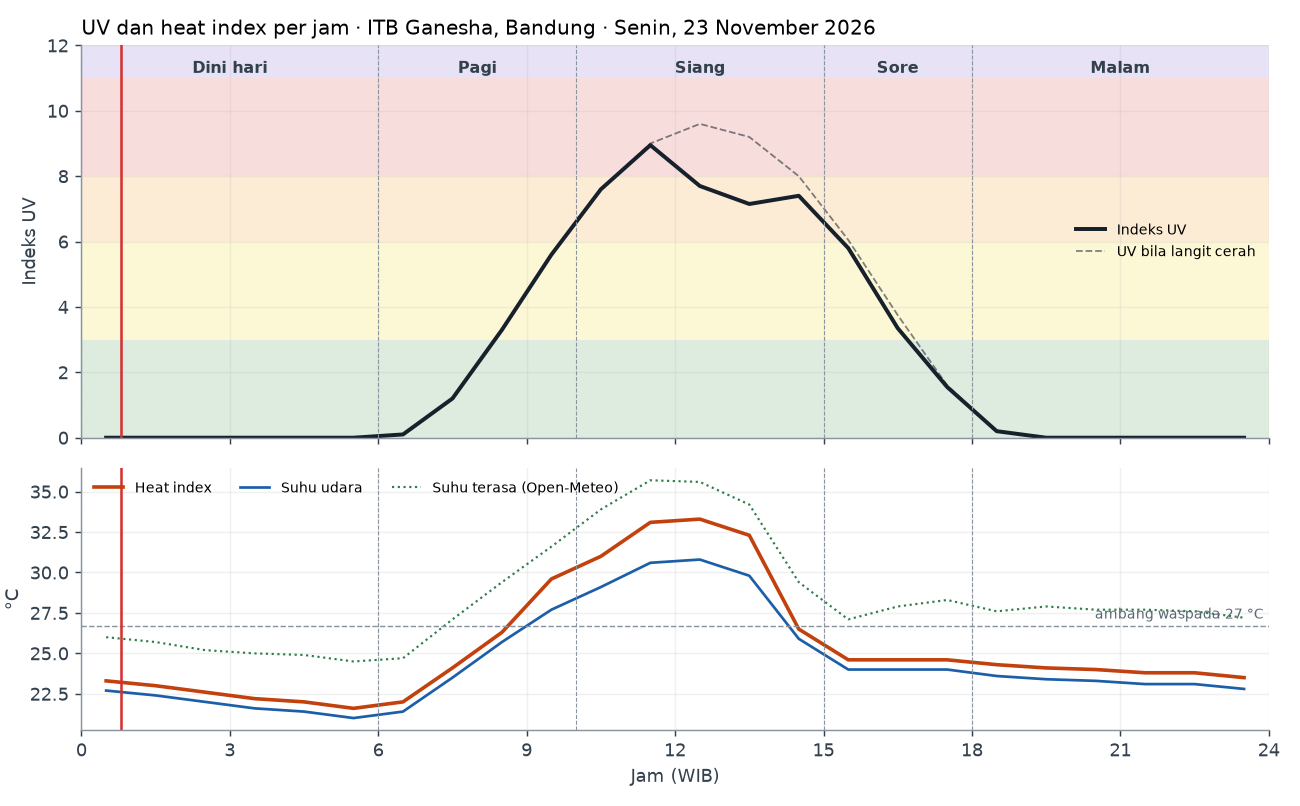
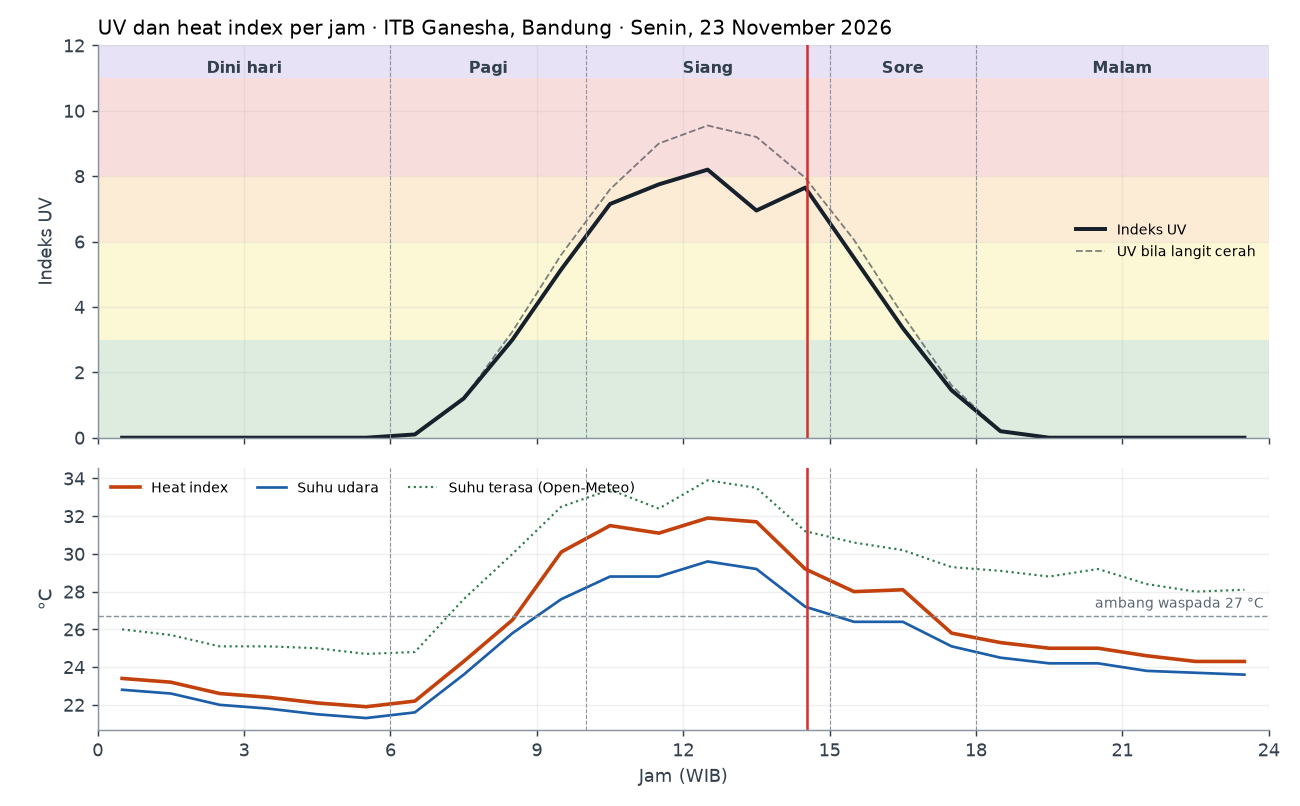
data: update 2026-11-23 14:32 WIB

diff --git a/docs/index.html b/docs/index.html
@@ -32,18 +32,18 @@ footer{margin-top:32px;color:var(--mut);font-size:.82rem}
 footer a,details a{color:var(--accent)}
 </style></head><body><div class="wrap">
 <header><h1>UV dan Heat Index — ITB Ganesha, Bandung</h1>
-<p>Senin, 23 November 2026 · diperbarui 00:48 WIB · data Open-Meteo</p></header>
+<p>Senin, 23 November 2026 · diperbarui 14:32 WIB · data Open-Meteo</p></header>
 <section class="kpis">
-<div class="kpi"><div class="l">Puncak UV</div><div class="v">8,9</div>
-<div class="s"><span class="pill" style="background:#d62f2f;color:#ffffff">Sangat tinggi</span> pukul 11:00 WIB</div><div class="s">Perkiraan kasar: kulit sensitif mulai memerah dalam ±20 menit tanpa perlindungan</div></div>
+<div class="kpi"><div class="l">Puncak UV</div><div class="v">8,2</div>
+<div class="s"><span class="pill" style="background:#d62f2f;color:#ffffff">Sangat tinggi</span> pukul 12:00 WIB</div><div class="s">Perkiraan kasar: kulit sensitif mulai memerah dalam ±20 menit tanpa perlindungan</div></div>
 <div class="kpi"><div class="l">Jam perlu proteksi (UV ≥ 3)</div><div class="v" style="font-size:1.35rem">08:00–17:00</div><div class="s">Jendela aman (UV &lt; 3): 06:00–08:00, 17:00–18:00</div></div>
-<div class="kpi"><div class="l">Heat index tertinggi</div><div class="v">33,3 °C</div><div class="s"><span class="pill" style="background:#f28a00;color:#1b1b1b">Sangat waspada</span></div></div>
+<div class="kpi"><div class="l">Heat index tertinggi</div><div class="v">31,9 °C</div><div class="s"><span class="pill" style="background:#f2d600;color:#1b1b1b">Waspada</span></div></div>
 </section>
 <h2>Ringkasan dan tindakan per segmen waktu</h2>
 <div class="tablewrap"><table><thead><tr><th>Segmen (WIB)</th><th>UV maks</th><th>Heat index maks</th><th>Kepastian</th><th>Tindakan</th></tr></thead>
-<tbody><tr class='now'><td><b>Dini hari</b><br><small>00:00–06:00</small><br><small>Berlangsung</small></td><td><span class="pill" style="background:#d9dee3;color:#33404d">Tidak ada</span></td><td><span class="n">23,3 °C</span> <span class="pill" style="background:#2e8b3d;color:#ffffff">Aman</span><br><small>suhu rata-rata 22 °C, RH 90%</small></td><td><small>Tinggi · HI 23–24 °C</small></td><td>Tabir surya tidak diperlukan.</td></tr><tr class=''><td><b>Pagi</b><br><small>06:00–10:00</small><br><small>Akan datang</small></td><td><span class="n">5,6</span> <span class="pill" style="background:#f2d600;color:#1b1b1b">Sedang</span><br><small>puncak 09:00</small></td><td><span class="n">29,6 °C</span> <span class="pill" style="background:#f2d600;color:#1b1b1b">Waspada</span><br><small>suhu rata-rata 25 °C, RH 80%</small></td><td><small>Sedang · UV 4,0–5,6 · HI 28–31 °C · CAMS 4,0</small></td><td>SPF 30+ dan kacamata hitam; cari teduh saat terik. Bawa botol minum; minum sebelum haus. Mendung tidak mengurangi risiko UV.</td></tr><tr class=''><td><b>Siang</b><br><small>10:00–15:00</small><br><small>Akan datang</small></td><td><span class="n">8,9</span> <span class="pill" style="background:#d62f2f;color:#ffffff">Sangat tinggi</span><br><small>puncak 11:00</small></td><td><span class="n">33,3 °C</span> <span class="pill" style="background:#f28a00;color:#1b1b1b">Sangat waspada</span><br><small>suhu rata-rata 29 °C, RH 61%</small></td><td><small>Tinggi · UV 8,9–10,0 · HI 30–36 °C · CAMS 10,0</small></td><td>Hindari luar ruang tanpa naungan; bila perlu SPF 50+, topi, pakaian menutup. Minum ±250 ml tiap jam secara perlahan; kurangi aktivitas berat. Mendung tidak mengurangi risiko UV. Bawa payung.</td></tr><tr class=''><td><b>Sore</b><br><small>15:00–18:00</small><br><small>Akan datang</small></td><td><span class="n">5,8</span> <span class="pill" style="background:#f2d600;color:#1b1b1b">Sedang</span><br><small>puncak 15:00</small></td><td><span class="n">24,6 °C</span> <span class="pill" style="background:#2e8b3d;color:#ffffff">Aman</span><br><small>suhu rata-rata 24 °C, RH 83%</small></td><td><small>Sedang · UV 1,2–5,8 · HI 23–30 °C · CAMS 1,2 · skenario terburuk</small></td><td>SPF 30+ dan kacamata hitam; cari teduh saat terik. Bawa botol minum; minum sebelum haus. Mendung tidak mengurangi risiko UV. Bawa payung.</td></tr><tr class=''><td><b>Malam</b><br><small>18:00–24:00</small><br><small>Akan datang</small></td><td><span class="pill" style="background:#d9dee3;color:#33404d">Tidak ada</span></td><td><span class="n">24,3 °C</span> <span class="pill" style="background:#2e8b3d;color:#ffffff">Aman</span><br><small>suhu rata-rata 23 °C, RH 90%</small></td><td><small>Tinggi · HI 24–25 °C</small></td><td>Tabir surya tidak diperlukan.</td></tr></tbody></table></div>
+<tbody><tr class='past'><td><b>Dini hari</b><br><small>00:00–06:00</small><br><small>Selesai</small></td><td><span class="pill" style="background:#d9dee3;color:#33404d">Tidak ada</span></td><td><span class="n">23,4 °C</span> <span class="pill" style="background:#2e8b3d;color:#ffffff">Aman</span><br><small>suhu rata-rata 22 °C, RH 90%</small></td><td><small>Tinggi · HI 23–24 °C</small></td><td>Tabir surya tidak diperlukan.</td></tr><tr class='past'><td><b>Pagi</b><br><small>06:00–10:00</small><br><small>Selesai</small></td><td><span class="n">5,2</span> <span class="pill" style="background:#f2d600;color:#1b1b1b">Sedang</span><br><small>puncak 09:00</small></td><td><span class="n">30,1 °C</span> <span class="pill" style="background:#f2d600;color:#1b1b1b">Waspada</span><br><small>suhu rata-rata 25 °C, RH 82%</small></td><td><small>Sedang · UV 5,2–6,2 · HI 28–32 °C · CAMS 6,2 · skenario terburuk</small></td><td>SPF 50+, topi, lengan panjang; ulangi tiap 2 jam. Bawa botol minum; minum sebelum haus. Mendung tidak mengurangi risiko UV.</td></tr><tr class='now'><td><b>Siang</b><br><small>10:00–15:00</small><br><small>Berlangsung</small></td><td><span class="n">8,2</span> <span class="pill" style="background:#d62f2f;color:#ffffff">Sangat tinggi</span><br><small>puncak 12:00</small></td><td><span class="n">31,9 °C</span> <span class="pill" style="background:#f2d600;color:#1b1b1b">Waspada</span><br><small>suhu rata-rata 29 °C, RH 64%</small></td><td><small>Tinggi · UV 8,2–8,2 · HI 29–34 °C · CAMS 8,2 · skenario terburuk</small></td><td>Hindari luar ruang tanpa naungan; bila perlu SPF 50+, topi, pakaian menutup. Minum ±250 ml tiap jam secara perlahan; kurangi aktivitas berat. Mendung tidak mengurangi risiko UV. Bawa payung.</td></tr><tr class=''><td><b>Sore</b><br><small>15:00–18:00</small><br><small>Akan datang</small></td><td><span class="n">5,5</span> <span class="pill" style="background:#f2d600;color:#1b1b1b">Sedang</span><br><small>puncak 15:00</small></td><td><span class="n">28,1 °C</span> <span class="pill" style="background:#f2d600;color:#1b1b1b">Waspada</span><br><small>suhu rata-rata 26 °C, RH 76%</small></td><td><small>Sedang · UV 1,8–5,5 · HI 26–31 °C · CAMS 1,8</small></td><td>SPF 30+ dan kacamata hitam; cari teduh saat terik. Bawa botol minum; minum sebelum haus. Mendung tidak mengurangi risiko UV. Bawa payung.</td></tr><tr class=''><td><b>Malam</b><br><small>18:00–24:00</small><br><small>Akan datang</small></td><td><span class="pill" style="background:#d9dee3;color:#33404d">Tidak ada</span></td><td><span class="n">25,3 °C</span> <span class="pill" style="background:#2e8b3d;color:#ffffff">Aman</span><br><small>suhu rata-rata 24 °C, RH 87%</small></td><td><small>Tinggi · HI 24–26 °C</small></td><td>Tabir surya tidak diperlukan. Bawa payung.</td></tr></tbody></table></div>
 <h2>Pesan hari ini untuk mahasiswa</h2>
-<div class="tablewrap" style="padding:6px 20px"><ul style="padding-left:18px;margin:10px 0"><li>UV hari ini mencapai 8,9 (sangat tinggi) sekitar pukul 11:00. Pakai sunscreen dan cari tempat teduh pada 08:00–17:00.</li><li>Target minimal 8 gelas air putih sehari. Kalau kamu banyak di luar ruang, minum ±250 ml tiap jam secara perlahan. Cek warna pipis: kuning pucat berarti cukup.</li><li>Kombo hari ini: minum cukup + sunscreen + berteduh di jam puncak.</li></ul></div>
+<div class="tablewrap" style="padding:6px 20px"><ul style="padding-left:18px;margin:10px 0"><li>UV hari ini mencapai 8,2 (sangat tinggi) sekitar pukul 12:00. Pakai sunscreen dan cari tempat teduh pada 08:00–17:00.</li><li>Target minimal 8 gelas air putih sehari. Kalau kamu banyak di luar ruang, minum ±250 ml tiap jam secara perlahan. Cek warna pipis: kuning pucat berarti cukup.</li><li>Kombo hari ini: minum cukup + sunscreen + berteduh di jam puncak.</li></ul></div>
 <h2>Grafik</h2><div class="charts"><img src="today.png" alt="UV, heat index, dan suhu per jam hari ini"><img src="trend.png" alt="UV dan heat index maksimum per segmen, 14 hari"></div>
 <details><summary>Cara membaca, asumsi, dan ketidakpastian</summary><ul>
 <li>Nilai per segmen adalah <b>maksimum</b> dalam segmen tersebut (kondisi terburuk). Batas segmen: Dini hari 00–06, Pagi 06–10, Siang 10–15, Sore 15–18, Malam 18–24 WIB.</li>

diff --git a/README.md b/README.md
@@ -10,26 +10,26 @@ Pemantauan intensitas sinar UV dan heat index di kampus ITB Ganesha, Bandung, pe
 ## Kondisi hari ini
 
 <!-- TODAY:START -->
-**Senin, 23 November 2026** · ITB Ganesha, Bandung · diperbarui 00:48 WIB
+**Senin, 23 November 2026** · ITB Ganesha, Bandung · diperbarui 14:32 WIB
 
 | Ringkasan hari ini | |
 |---|---|
-| Puncak UV | **8,9** (Sangat tinggi) pukul 11:00 WIB |
+| Puncak UV | **8,2** (Sangat tinggi) pukul 12:00 WIB |
 | Jam perlu proteksi (UV ≥ 3) | 08:00–17:00 |
 | Jendela UV aman (< 3) | 06:00–08:00, 17:00–18:00 |
-| Heat index tertinggi | **33,3 °C** (Sangat waspada) |
+| Heat index tertinggi | **31,9 °C** (Waspada) |
 
 | Segmen | Jam (WIB) | UV maks | Heat index maks | Kepastian | Tindakan |
 |---|---|---|---|---|---|
-| **Dini hari** (berlangsung) | 00:00–06:00 | Tidak ada | **23,3 °C** Aman | Tinggi · HI 23–24 °C | Tabir surya tidak diperlukan. |
-| **Pagi** | 06:00–10:00 | **5,6** Sedang (09:00) | **29,6 °C** Waspada | Sedang · UV 4,0–5,6 · HI 28–31 °C · CAMS 4,0 | SPF 30+ dan kacamata hitam; cari teduh saat terik. Bawa botol minum; minum sebelum haus. Mendung tidak mengurangi risiko UV. |
-| **Siang** | 10:00–15:00 | **8,9** Sangat tinggi (11:00) | **33,3 °C** Sangat waspada | Tinggi · UV 8,9–10,0 · HI 30–36 °C · CAMS 10,0 | Hindari luar ruang tanpa naungan; bila perlu SPF 50+, topi, pakaian menutup. Minum ±250 ml tiap jam secara perlahan; kurangi aktivitas berat. Mendung tidak mengurangi risiko UV. Bawa payung. |
-| **Sore** | 15:00–18:00 | **5,8** Sedang (15:00) | **24,6 °C** Aman | Sedang · UV 1,2–5,8 · HI 23–30 °C · CAMS 1,2 · skenario terburuk | SPF 30+ dan kacamata hitam; cari teduh saat terik. Bawa botol minum; minum sebelum haus. Mendung tidak mengurangi risiko UV. Bawa payung. |
-| **Malam** | 18:00–24:00 | Tidak ada | **24,3 °C** Aman | Tinggi · HI 24–25 °C | Tabir surya tidak diperlukan. |
+| **Dini hari** | 00:00–06:00 | Tidak ada | **23,4 °C** Aman | Tinggi · HI 23–24 °C | Tabir surya tidak diperlukan. |
+| **Pagi** | 06:00–10:00 | **5,2** Sedang (09:00) | **30,1 °C** Waspada | Sedang · UV 5,2–6,2 · HI 28–32 °C · CAMS 6,2 · skenario terburuk | SPF 50+, topi, lengan panjang; ulangi tiap 2 jam. Bawa botol minum; minum sebelum haus. Mendung tidak mengurangi risiko UV. |
+| **Siang** (berlangsung) | 10:00–15:00 | **8,2** Sangat tinggi (12:00) | **31,9 °C** Waspada | Tinggi · UV 8,2–8,2 · HI 29–34 °C · CAMS 8,2 · skenario terburuk | Hindari luar ruang tanpa naungan; bila perlu SPF 50+, topi, pakaian menutup. Minum ±250 ml tiap jam secara perlahan; kurangi aktivitas berat. Mendung tidak mengurangi risiko UV. Bawa payung. |
+| **Sore** | 15:00–18:00 | **5,5** Sedang (15:00) | **28,1 °C** Waspada | Sedang · UV 1,8–5,5 · HI 26–31 °C · CAMS 1,8 | SPF 30+ dan kacamata hitam; cari teduh saat terik. Bawa botol minum; minum sebelum haus. Mendung tidak mengurangi risiko UV. Bawa payung. |
+| **Malam** | 18:00–24:00 | Tidak ada | **25,3 °C** Aman | Tinggi · HI 24–26 °C | Tabir surya tidak diperlukan. Bawa payung. |
 
 **Pesan hari ini untuk mahasiswa**
 
-- UV hari ini mencapai 8,9 (sangat tinggi) sekitar pukul 11:00. Pakai sunscreen dan cari tempat teduh pada 08:00–17:00.
+- UV hari ini mencapai 8,2 (sangat tinggi) sekitar pukul 12:00. Pakai sunscreen dan cari tempat teduh pada 08:00–17:00.
 - Target minimal 8 gelas air putih sehari. Kalau kamu banyak di luar ruang, minum ±250 ml tiap jam secara perlahan. Cek warna pipis: kuning pucat berarti cukup.
 - Kombo hari ini: minum cukup + sunscreen + berteduh di jam puncak.
 
@@ -44,20 +44,20 @@ Pemantauan intensitas sinar UV dan heat index di kampus ITB Ganesha, Bandung, pe
 <!-- HOURLY:START -->
 | Jam | UV | Heat index (°C) | Suhu (°C) | RH (%) | Awan (%) |
 |---:|---:|---:|---:|---:|---:|
-| 05:00 | 0,0 | 21,6 | 21,0 | 93 | 99 |
-| 06:00 | 0,1 | 22,0 | 21,4 | 92 | 95 |
-| 07:00 | 1,2 | 24,1 | 23,5 | 85 | 98 |
-| 08:00 | 3,3 | 26,3 | 25,7 | 76 | 84 |
-| 09:00 | 5,6 | 29,6 | 27,7 | 66 | 45 |
-| 10:00 | 7,6 | 31,0 | 29,1 | 59 | 74 |
-| 11:00 | 8,9 | 33,1 | 30,6 | 56 | 83 |
-| 12:00 | 7,7 | 33,3 | 30,8 | 55 | 100 |
-| 13:00 | 7,2 | 32,3 | 29,8 | 59 | 88 |
-| 14:00 | 7,4 | 26,5 | 25,9 | 76 | 99 |
-| 15:00 | 5,8 | 24,6 | 24,0 | 83 | 100 |
-| 16:00 | 3,4 | 24,6 | 24,0 | 83 | 99 |
-| 17:00 | 1,6 | 24,6 | 24,0 | 84 | 87 |
-| 18:00 | 0,2 | 24,3 | 23,6 | 87 | 91 |
+| 05:00 | 0,0 | 21,9 | 21,3 | 93 | 100 |
+| 06:00 | 0,1 | 22,2 | 21,6 | 92 | 100 |
+| 07:00 | 1,2 | 24,3 | 23,6 | 86 | 98 |
+| 08:00 | 3,0 | 26,5 | 25,8 | 78 | 98 |
+| 09:00 | 5,2 | 30,1 | 27,6 | 72 | 95 |
+| 10:00 | 7,2 | 31,5 | 28,8 | 65 | 100 |
+| 11:00 | 7,8 | 31,1 | 28,8 | 63 | 99 |
+| 12:00 | 8,2 | 31,9 | 29,6 | 59 | 98 |
+| 13:00 | 7,0 | 31,7 | 29,2 | 62 | 98 |
+| 14:00 | 7,7 | 29,2 | 27,2 | 70 | 99 |
+| 15:00 | 5,5 | 28,0 | 26,4 | 72 | 95 |
+| 16:00 | 3,4 | 28,1 | 26,4 | 74 | 99 |
+| 17:00 | 1,4 | 25,8 | 25,1 | 82 | 95 |
+| 18:00 | 0,2 | 25,3 | 24,5 | 87 | 98 |
 <!-- HOURLY:END -->
 
 </details>
